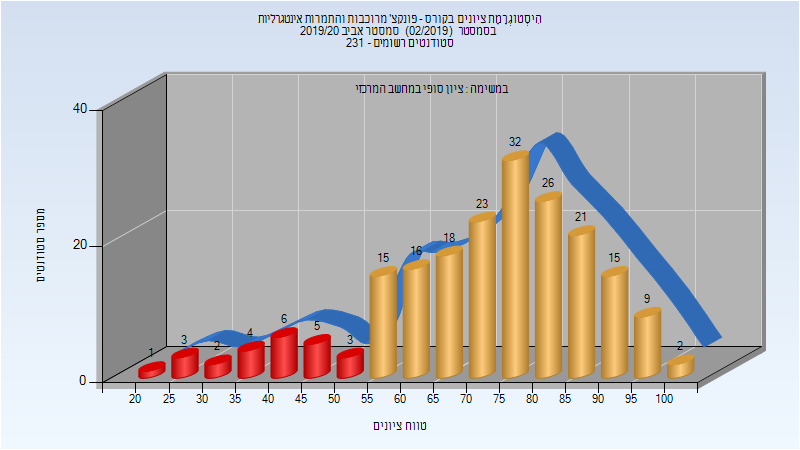
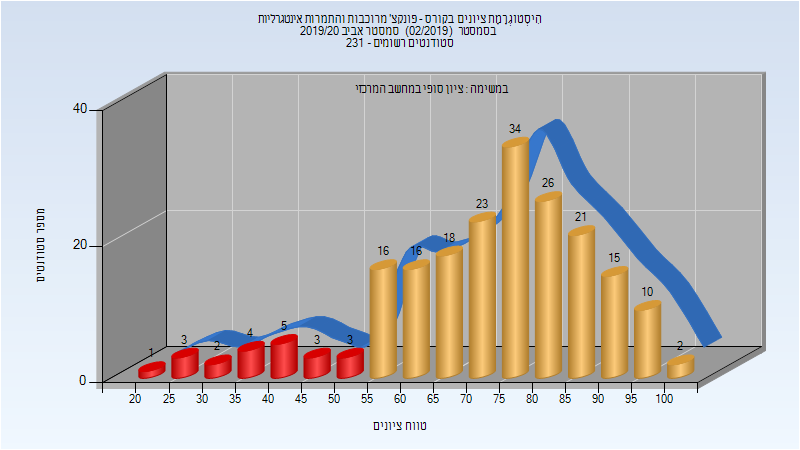
Deploy michael-maltsev/technion-histograms to github.com/michael-maltsev/technion-histograms.git:gh-pages

diff --git a/104221/index.html b/104221/index.html
@@ -2084,12 +2084,12 @@
 </thead>
 <tbody>
 <tr>
-<td>201</td>
-<td>177/24</td>
-<td>88</td>
+<td>202</td>
+<td>181/21</td>
+<td>90</td>
 <td>23</td>
 <td>100</td>
-<td>72.338</td>
+<td>72.802</td>
 <td>76</td>
 </tr>
 </tbody>

diff --git a/104223/index.html b/104223/index.html
@@ -2471,12 +2471,12 @@
 </thead>
 <tbody>
 <tr>
-<td>201</td>
-<td>175/26</td>
-<td>87</td>
+<td>203</td>
+<td>179/24</td>
+<td>88</td>
 <td>15</td>
 <td>100</td>
-<td>70.025</td>
+<td>70.261</td>
 <td>71</td>
 </tr>
 </tbody>

diff --git a/104223/README.md b/104223/README.md
@@ -778,7 +778,7 @@
 
 | סטודנטים | עברו/נכשלו | אחוז עוברים | ציון מינימלי | ציון מקסימלי | ממוצע | חציון |
 | ---- | ---- | ---- | ---- | ---- | ---- | ---- |
-| 201 | 175/26 | 87 | 15 | 100 | 70.025 | 71 |
+| 203 | 179/24 | 88 | 15 | 100 | 70.261 | 71 |
 
 ## קיץ 2020
 

diff --git a/104221/README.md b/104221/README.md
@@ -655,5 +655,5 @@
 
 | סטודנטים | עברו/נכשלו | אחוז עוברים | ציון מינימלי | ציון מקסימלי | ממוצע | חציון |
 | ---- | ---- | ---- | ---- | ---- | ---- | ---- |
-| 201 | 177/24 | 88 | 23 | 100 | 72.338 | 76 |
+| 202 | 181/21 | 90 | 23 | 100 | 72.802 | 76 |
 
